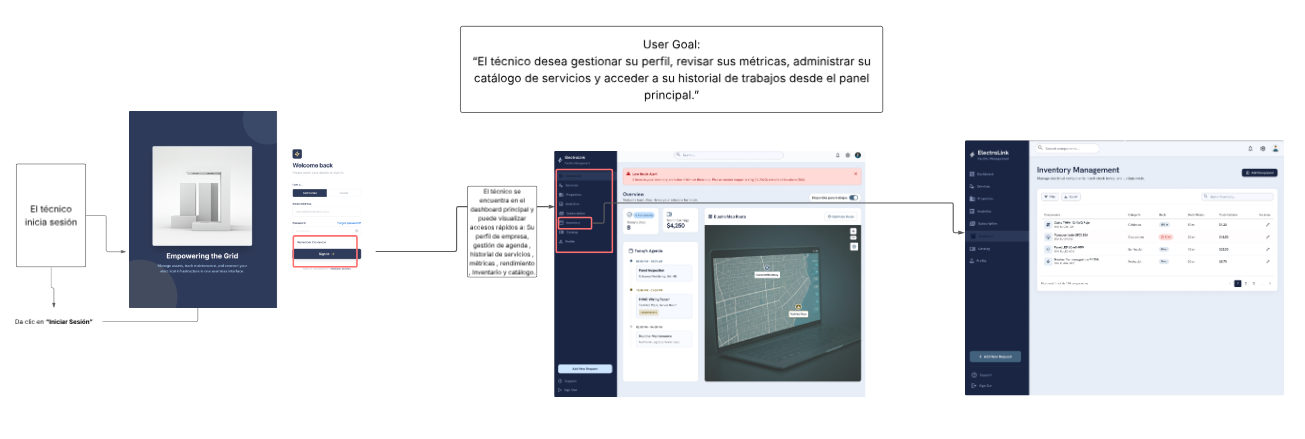
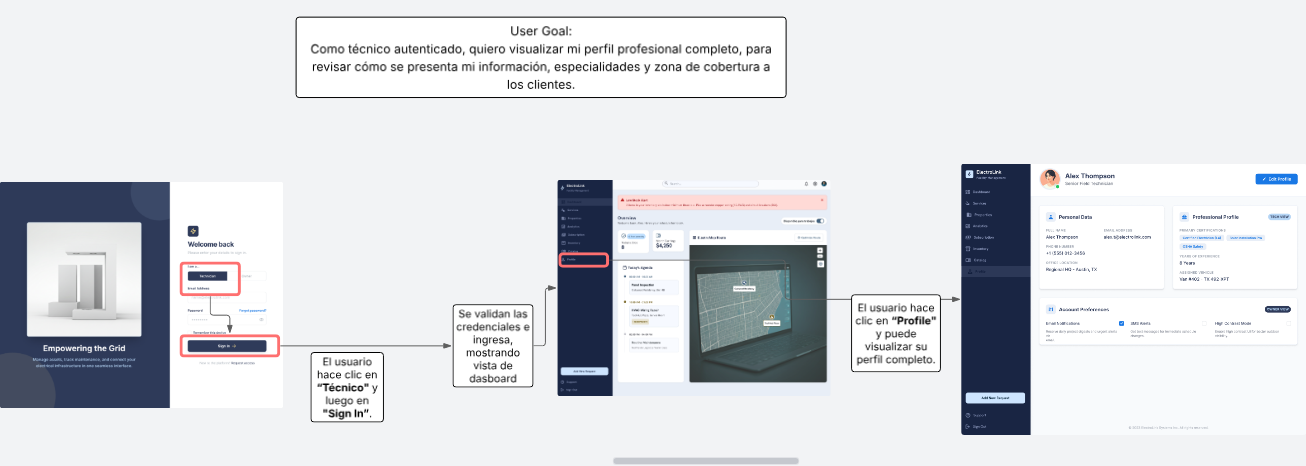
docs: added userflows

diff --git a/report/50-cap5-solution-ui-ux-design.md b/report/50-cap5-solution-ui-ux-design.md
@@ -277,16 +277,41 @@ En esta sección se presenta la propuesta de User Flows del sistema ElectroLink,
 
 Cada flujo ha sido diseñado a partir de un objetivo específico del usuario (User Goal), considerando los perfiles de User Persona definidos en el alcance del proyecto.
 
-#### User Flow diagrams para el Usuario se registre dentro de la plataforma
+#### User Flow diagrams para que el Técnico se registre dentro de la plataforma
 
 
-![](assets/img/cap5/userflows/userflow.png)
+![](assets/img/cap5/userflows/userflow1.png)
 
 
-#### User Flow diagrams para el Usuario acceda desde la pagina principal al inventario
+#### User Flow diagrams para que Propietario se registre dentro de la plataforma
+
+
+![](assets/img/cap5/userflows/userflow3.png)
+
+
+#### User Flow diagrams para que Técnico acceda desde la pagina principal a su perfil
 
 
 ![](assets/img/cap5/userflows/userflow2.png)
+
+
+#### User Flow diagrams para que Propietario registre nueva propiedad
+
+
+![](assets/img/cap5/userflows/userflow4.png)
+
+
+#### User Flow diagrams para que Técnico ingrese al inventario
+
+
+![](assets/img/cap5/userflows/userflow5.png)
+
+
+#### User Flow diagrams para que Propietario edite propiedades y se visualicen en portafolio
+
+
+![](assets/img/cap5/userflows/userflow6.png)
+
 
 
 ## 5.5. Applications Prototyping.
